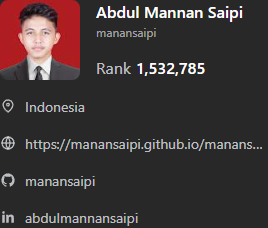
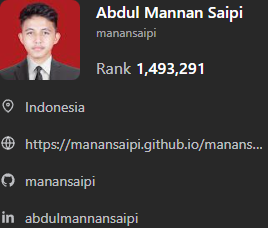
day38

Changed region(s): [[0.5373, 0.2763, 0.7761, 0.3377]]

diff --git a/solutions/38. 2455. Average Value of Even Numbers That Are Divisible by Three.js b/solutions/38. 2455. Average Value of Even Numbers That Are Divisible by Three.js
@@ -1,0 +1,26 @@
+// URL : https://leetcode.com/problems/average-value-of-even-numbers-that-are-divisible-by-three/description/
+
+/**
+ * @param {number[]} nums
+ * @return {number}
+ */
+var averageValue = function(nums) {
+    let container = 0; // Variable to hold the sum of even integers divisible by 3
+    let counter = 0;   // Variable to count the number of even integers divisible by 3
+    
+    // Loop through the array
+    for (let index = 0; index < nums.length; index++) {
+        const current = nums[index]; // Get the current number
+        
+        // Check if the current number is even and divisible by 3
+        if (current % 3 === 0 && current % 2 === 0) {
+            container += current; // Add the current number to the sum
+            counter++;           // Increment the counter
+        }
+    }
+    
+    // Check if there are any numbers satisfying the condition
+    // If yes, return the average value; if not, return 0
+    return counter > 0 ? Math.floor(container / counter) : 0;
+};
+console.log(averageValue([43,9,75,76,25,96,46,85,19,29,88,2,5,24,60,26,76,24,96,82,97,97,72,35,21,77,82,30,94,55,76,94,51]));

diff --git a/README.md b/README.md
@@ -16,9 +16,9 @@
 
 My snapshot of my current progress:
 
-Total Problems Solved: 45
+Total Problems Solved: 46
 
-Easy: 30, Medium: 11, Hard: 4
+Easy: 31, Medium: 11, Hard: 4
 
 [View My LeetCode Profile](https://leetcode.com/manansaipi)
 
